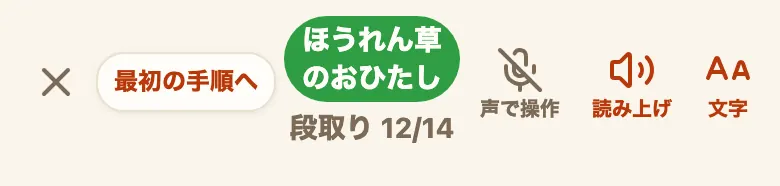
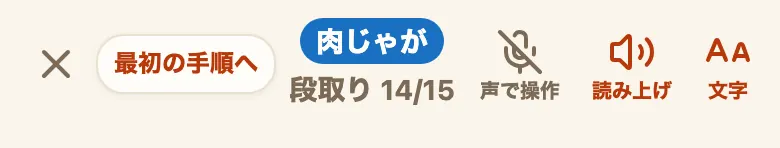
便GN: 使い方ページ§9に、8/13〜15の並行調理ナビの追加分4件を書く（台所の器具／段取りの並べ替え／できあがりの目安／幅で書かれた待ちのタイマー）＋図5枚
書いた節（読む順番に合わせて§9の中に差し込む。末尾には足さない）:
- 「台所の器具に合わせた段取りになります」…設定の口数(1〜4口・最初は2口)と3器具、
  持っていない器具はコンロ1口として数えること、段取りの上に出る前提の一言と設定への行き先、
  口数が足りないときの「1品ずつ作る順番で表示します」、炊飯器を数えない理由、
  レシピ詳細の初回案内
- 「できあがりの目安」…品ごとの完成の見込みと開き、3割を超えたときの一言、冷たい品の理由
- 「段取りの順番を自分で変える」…上へ/下へ、番号の振り直し、調理中モードにも効くこと、
  止めずに出す印3種、1つ前に戻す/自動の並びに戻す、並べ替え後の目安が灰色になること
- 幅で書かれた待ち（既存の待ちの説明に1段落追加）

**実物と食い違っていた既存の記述も直した**:
- 「湯が沸くまでの待ち時間」→「沸くまでの待ち時間」（2026-08-13 便GDで「湯が」を外した）
- 「全体の目安には約5分として数えています」→タイマーが何分ではかるかを書く形
  （2026-08-14 便GLで文言が変わっていた）

図: settings-kitchen / cooknavi-finish / cooknavi-reorder / cooknavi-reorder-undo を新設。
cooknavi は切り出しの高さをpx決め打ちしていたぶん、便GJの「上へ」「下へ」が増えて
次の手順の本文が途中で切れていたので測って切る形にし、cooknavi-session と
cooknavi-session-others は段取りが14→15手順に変わって中身がずれていたので撮り直した
（alt・figcaption・width/heightも実物に合わせた）。

撮影スクリプト: 便GEの初回案内がレシピ詳細で開いたまま以降の操作を全部ふさいでいたので、
開いたら閉じる手を足した（この一手が無いと撮り直しが途中で止まる）。

diff --git a/public/about/manual.html b/public/about/manual.html
@@ -1096,16 +1096,46 @@
     <p>献立の画面の「日」に2品以上並ぶと、その下に<strong>「並行調理ナビ」の入口</strong>が出ます。入口を押して、「レシピ一覧から選択中」と「今週の献立の予定」の両方から2〜3品を選んで「段取りを作る」を押すと、<strong>待ち時間の長い工程を先にして、その隙間に別の手作業を差し込んだ「1本の段取り」</strong>を提案します。</p>
 
     <figure class="shot" style="--w:390px">
-      <img src="/about/img/manual/cooknavi.webp" width="780" height="640" loading="lazy" decoding="async" alt="並行調理ナビの手順。「湯が沸くまでの待ち時間」の帯に「タイマーを始める」のボタンと「この間に、次の手作業を進められます」、「全体の目安には約5分として数えています。実際に沸くまでの時間は、火力と湯の量で変わります。」が入り、その下に次の手順が「肉じゃが」「手を動かす」の印と、使う材料・分量つきで並んでいる">
+      <img src="/about/img/manual/cooknavi.webp" width="780" height="926" loading="lazy" decoding="async" alt="並行調理ナビの手順。「ほうれん草のおひたし」「待ち」の印が付いた手順「鍋にたっぷりの湯を沸かす」の中に「沸くまでの待ち時間」の帯があり、「タイマーを始める」のボタンと「この間に、次の手作業を進められます」「タイマーは5分ではかります。全体の目安に数えているのも同じ5分です。実際に沸くまでの時間は、火力と量で変わります。」が入っている。カードの下に「上へ」「下へ」のボタン、その下に次の手順が「肉じゃが」「手を動かす」の印と、使う材料・分量つきで並んでいる">
       <figcaption>「待ち」の間に、次の手作業の手順が入ります</figcaption>
     </figure>
 
     <p>手順には「待ち」「手を動かす」の区別が付き、待ち時間には「約◯分の待ち時間」「この間に、次の手作業を進められます」と出ます。<strong>分数を出している待ちには、必ず「タイマーを始める」のボタンが付きます。</strong></p>
-    <p>ナビが足したお湯を沸かす待ちだけは、沸くまでの時間がコンロの火力と湯の量で変わるため分数を書かず、<strong>「湯が沸くまでの待ち時間」</strong>と出します。全体の目安には約5分として数えていることを、その待ちの中に添えています。</p>
+    <p>ナビが足した沸くのを待つ工程だけは、沸くまでの時間がコンロの火力と量で変わるため分数を書かず、<strong>「沸くまでの待ち時間」</strong>と出します。タイマーが何分ではかるかと、全体の目安にも同じ分数で数えていることは、その待ちの中に書いてあります。</p>
+    <p>手順に「12〜15分焼く」のように幅で書かれた待ちは、<strong>待ちの長さは長いほうの15分で数え、タイマーは短いほうの12分で始めます。</strong>短いほうで一度確かめられるようにするためです。待ちの長さとタイマーの鳴る長さが違うときは、ボタンの下に<strong>「タイマーは短いほうの◯分で始めます。」</strong>と出ます。</p>
+
+    <h3>台所の器具に合わせた段取りになります</h3>
+    <p>段取りは、<strong>設定の「台所の器具」</strong>で決めた台数の中で組みます。決めた台数を超えて同時に使う順番は出しません。</p>
+
+    <figure class="shot" style="--w:390px">
+      <img src="/about/img/manual/settings-kitchen.webp" width="780" height="904" loading="lazy" decoding="async" alt="設定の「台所の器具」の欄。「並行調理ナビが段取りを組むときの前提です。設定した台数を超えて同時に使う順番は出しません。」の説明の下に、「コンロ・IHの口数」が「2口」の選択欄、「持っている器具」として電子レンジ・魚焼きグリル・トースターのスイッチが並び、いちばん下に「持っていない器具の工程は、フライパンや鍋で作るものとして、コンロを1口使うと数えます。」「変えると、並行調理ナビの段取りが組み直されます。」と書かれている">
+      <figcaption>設定の「台所の器具」。最初はコンロ2口・3つとも「持っている」です</figcaption>
+    </figure>
+
+    <ul class="feature-list">
+      <li><strong>「コンロ・IHの口数」</strong>: 1口から4口まで選べます</li>
+      <li><strong>「持っている器具」</strong>: 電子レンジ・魚焼きグリル・トースターを、持っているかどうかで切り替えます</li>
+      <li>持っていないことにした器具の工程は、フライパンや鍋で作るものとして<strong>コンロを1口使う</strong>と数えます（その手順が段取りから消えることはありません）</li>
+    </ul>
+
+    <p>並行調理ナビの画面の上には、<strong>「コンロ2口で組んだ段取りです。」</strong>のように、いま組んでいる前提が出ます。持っていない器具があるときは「コンロ1口・電子レンジなしで組んだ段取りです。」のように続きます。隣の<strong>「台所の器具を変える」</strong>から設定へ移れます。</p>
+    <p>口数が足りず並行して進められなかったときは、<strong>「コンロ◯口では、この◯品を同時に進める余地がありませんでした。1品ずつ作る順番で表示します。」</strong>と理由が出ます。</p>
+    <p class="muted">炊飯器は台数に数えていません。ほかの器具と取り合いにならないためです。</p>
+    <p class="muted">レシピ詳細を初めて開いたときに、<strong>「作る人数と台所の器具を設定できます」</strong>の案内が1回だけ出ます。閉じたあとも、設定の「食数の設定」「台所の器具」からいつでも変えられます。</p>
 
     <h3>時間の目安の読み方</h3>
     <p>段取りの上に<strong>「全体の目安 約◯分」</strong>と、<strong>「1品ずつ作ると約◯分 → この段取りで約◯分」</strong>が出ます。組み合わせた品それぞれにも<strong>「1品だけなら約◯分」</strong>が付くので、「1品ずつ作ると約◯分」がその足し算だと確かめられます。</p>
     <p class="muted">この分数は、手順ごとの時間を数えて合計した目安です。レシピ一覧に出ている「調理時間」とは数え方が違うため、一覧の合計とは一致しません。漬ける・冷やすなどの台所を離れられる待ちが入っているときは、そのぶんの分数も別に添えます。</p>
+
+    <h3>できあがりの目安</h3>
+    <p>「全体の目安」の下に<strong>「できあがりの目安（調理を始めてから）」</strong>が出ます。品ごとに、調理を始めてから何分後にできあがるかの見込みです。</p>
+
+    <figure class="shot" style="--w:390px">
+      <img src="/about/img/manual/cooknavi-finish.webp" width="780" height="424" loading="lazy" decoding="async" alt="「できあがりの目安（調理を始めてから）」の枠。「肉じゃが」が「約41分後」、「ほうれん草のおひたし」が「約24分後」と並び、その下に「ほうれん草のおひたしができてから肉じゃがができるまで、約17分あきます。ほうれん草のおひたしは冷たいまま出す品なので、先に仕上げる並びにしています。」と書かれている">
+      <figcaption>品ごとの見込みと、いちばん早い品と遅い品の開きが出ます</figcaption>
+    </figure>
+
+    <p>いちばん早くできる品といちばん遅い品の差は、<strong>「◯◯ができてから△△ができるまで、約◯分あきます。」</strong>と続けて出ます。開きが全体の目安の3割を超えるときは、先にできた品がその間そのままになることも添えます。先にできる品が冷たいまま出す品のときは、そう組んでいる理由が出ます。</p>
 
     <h3>材料とレシピのメモ</h3>
     <p>段取りの上にある<strong>「材料を見る」</strong>を押すと、選んだ品ごとの材料と分量を一覧で確認できます。調理を始める前にまとめて計量したいときに使えます。各手順の下には、その手順で使う材料の分量だけが料理名つきで出ます。</p>
@@ -1116,12 +1146,36 @@
       火加減や進み具合に合わせて、やりやすい順に進められます。
     </p>
 
+    <h3>段取りの順番を自分で変える</h3>
+    <p>各手順の下に<strong>「上へ」「下へ」</strong>のボタンがあります。押すと隣の手順と入れ替わり、<strong>変えた順番のまま調理中モードが進みます</strong>。段取りの番号は前から振り直されます。</p>
+
+    <figure class="shot" style="--w:390px">
+      <img src="/about/img/manual/cooknavi-reorder.webp" width="780" height="736" loading="lazy" decoding="async" alt="手で動かしたあとの手順カード。「ほうれん草のおひたし」の手順の頭に、三角の注意マークと「この品のレシピに書いた順番より前に出ています。」の赤い枠が付き、カードの下に「上へ」「下へ」のボタンと「目安1分」が並んでいる">
+      <figcaption>続けにくい並びになった手順には、理由の印が付きます</figcaption>
+    </figure>
+
+    <p>動かした結果、設定した器具では続けにくい並びになっても、操作は止めません。<strong>あてはまる手順に印が付きます。</strong>見ているのは次の3つです。</p>
+    <ul class="feature-list">
+      <li><strong>「この品のレシピに書いた順番より前に出ています。」</strong>: その品の手順が、レシピに書いてある順番を追い越したとき</li>
+      <li><strong>「この位置では、コンロの口が空いていません。」</strong>: 設定した器具の台数を超えて同時に使うとき（電子レンジ・魚焼きグリル・トースターも同じように見ます）</li>
+      <li><strong>「火にかけたまま、次にこの品へ手を戻すまでが長くなります。」</strong>: 火にかけたままにする時間が長くなるとき</li>
+    </ul>
+    <p>印が付いているときは、手順が並ぶすぐ上に<strong>「印を付けた◯か所は、この並びでは続けられないことがあります。並べ直すことも、そのまま進めることもできます。」</strong>と出ます。</p>
+
+    <figure class="shot" style="--w:390px">
+      <img src="/about/img/manual/cooknavi-reorder-undo.webp" width="780" height="448" loading="lazy" decoding="async" alt="手順が並ぶすぐ上の欄。「1つ前の並びに戻す（あと2回）」「自動の並びに戻す」の2つのボタンが並び、その下に「移した手順を今の位置に入れたので、段取りの番号を付け直しています」と、三角の注意マークつきで「印を付けた1か所は、この並びでは続けられないことがあります。並べ直すことも、そのまま進めることもできます。」と書かれている">
+      <figcaption>動かしたあとだけ出る欄。押した回数ぶん1つずつ戻せます</figcaption>
+    </figure>
+
+    <p>戻し方は2つあります。<strong>「1つ前の並びに戻す（あと◯回）」</strong>は、動かした操作を新しいほうから1回ずつ取り消します。<strong>「自動の並びに戻す」</strong>は、動かしたぶんをまとめて取り消してナビが組んだ並びに戻します（押すと、何が取り消されて何が残るかを確かめる窓が開きます）。</p>
+    <p class="muted">手で並べ替えたあとは、「全体の目安」と「できあがりの目安」の分数が灰色になり、<strong>「自動で組んだ並びで計算した数字です。手で並べ替えたあとの時間ではありません。」</strong>と印が付きます。分数は計算し直しません。</p>
+
     <h3>段取りを調理中モードで見る</h3>
     <p>段取りの上にある<strong>「調理中モードで見る」</strong>を押すと、いまやる手順だけを大きな文字で表示する画面になります。読み上げ・タイマー・声での操作は、レシピ1品を開いたときの<a href="#cookmode">調理中モード</a>と同じです。声で使える言葉には、色の言い方が加わります。</p>
 
     <figure class="shot" style="--w:390px">
-      <img src="/about/img/manual/cooknavi-session.webp" width="780" height="186" loading="lazy" decoding="async" alt="段取りの調理中モードの上部。左から✕、「最初の手順へ」のボタン、緑色の「ほうれん草のおひたし」と「段取り 12/14」、「声で操作」「読み上げ」「文字」のボタンが並んでいる">
-      <figcaption>調理中モードの上部。左上が「最初の手順へ」、中央が料理名と「段取り 12/14」です</figcaption>
+      <img src="/about/img/manual/cooknavi-session.webp" width="780" height="148" loading="lazy" decoding="async" alt="段取りの調理中モードの上部。左から✕、「最初の手順へ」のボタン、青色の「肉じゃが」と「段取り 14/15」、「声で操作」「読み上げ」「文字」のボタンが並んでいる">
+      <figcaption>調理中モードの上部。左上が「最初の手順へ」、中央が料理名と「段取り 14/15」です</figcaption>
     </figure>
 
     <ul class="feature-list">
@@ -1138,7 +1192,7 @@
     <p>画面の下には<strong>「他の品の次の手順」</strong>が1行ずつ並びます。行をタップすると全文が出ます（調理中の手順は変わりません）。開いた中の<strong>「この手順を先にする」</strong>を押すと、その手順がいま開いている場所に入ります。</p>
 
     <figure class="shot" style="--w:390px">
-      <img src="/about/img/manual/cooknavi-session-others.webp" width="780" height="224" loading="lazy" decoding="async" alt="「他の品の次の手順」の枠。1行目は青い「青」の印と「肉じゃが」が並び、行の右端に青い「完成」。2行目はピンクの「ピンク」の印、段取りの番号14、レシピの手順番号4、「豚汁」が並び、その下に次の手順の本文が1行で出ている">
+      <img src="/about/img/manual/cooknavi-session-others.webp" width="780" height="224" loading="lazy" decoding="async" alt="「他の品の次の手順」の枠。1行目は緑の「緑」の印と「ほうれん草のおひたし」が並び、行の右端に緑の「完成」。2行目はピンクの「ピンク」の印、段取りの番号15、レシピの手順番号4、「豚汁」が並び、その下に次の手順の本文が1行で出ている">
       <figcaption>行の左端の「青」「緑」「ピンク」が、声で言う色の名前です</figcaption>
     </figure>
 
